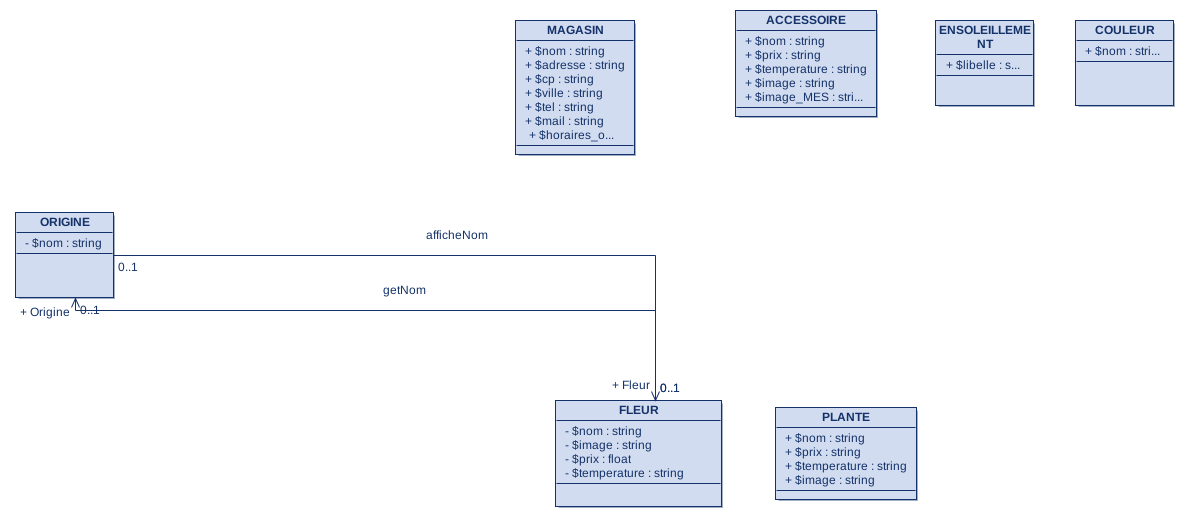
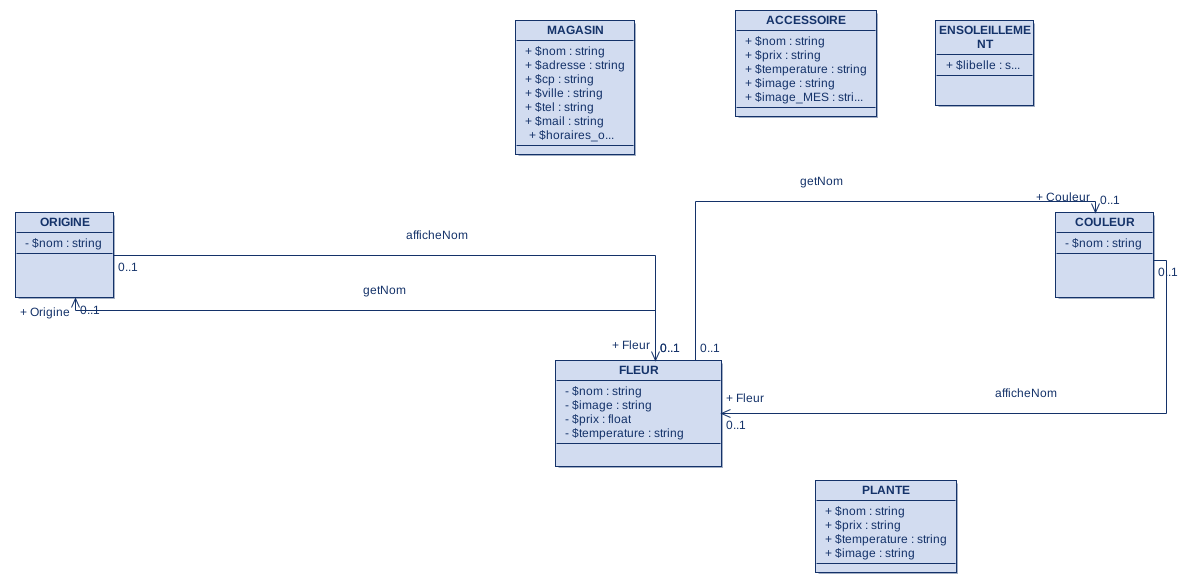
travail 2: travail n°4, même travaux pour classe Couleur

diff --git a/POO/utilisationClasseFleur.php b/POO/utilisationClasseFleur.php
@@ -60,8 +60,20 @@ $ensoleillement->libelle = "Plein soleil";
 var_dump($ensoleillement);
 
 $couleur = new Couleur();
-$couleur->couleur = "Rouge";
+$couleur->getCouleur("Rouge");
 var_dump($couleur);
+
+$couleur1 = new Couleur();
+$couleur1->getCouleur("Jaune");
+var_dump($couleur1);
+
+$couleur2 = new Couleur();
+$couleur2->getCouleur("Violet");
+var_dump($couleur2);
+
+$couleur3 = new Couleur();
+$couleur3->getCouleur("Noir");
+var_dump($couleur3);
 
 $magasin = new Magasin();
 $magasin->nom = "Magasin Teplan";
@@ -85,4 +97,8 @@ echo 'Le/la ' . $accessoire->nom . " coûte " . $accessoire->prix . " €.<br>";
 
 echo '<br>Origine : ' . $origine1->afficheNom() . '<br>';
 echo 'Origine : ' . $origine2->afficheNom() . '<br>';
+
+echo '<br>Couleur : ' . $couleur1->afficheCouleur() . '<br>';
+echo 'Couleur : ' . $couleur2->afficheCouleur() . '<br>';
+echo 'Couleur : ' . $couleur3->afficheCouleur() . '<br>';
 ?>

diff --git a/POO/classeCouleur.php b/POO/classeCouleur.php
@@ -1,5 +1,18 @@
 <?php
 class Couleur{
-    public $couleur;
+    private $couleur;
+
+    public function getCouleur(string $couleur) {
+        if (empty($couleur)||!is_string($couleur)||is_numeric($couleur)) {
+            echo "La couleur de la fleur ou de la plante ne peut pas être vide ou un nombre.";
+            die;
+        } else {
+            return $this->couleur = $couleur;
+        }
+    }
+
+    public function afficheCouleur() {
+        return $this->couleur;
+    }
 }
 ?>

diff --git a/POO/classeOrigine.php b/POO/classeOrigine.php
@@ -4,7 +4,7 @@ class Origine {
 
     public function getNom(string $nom) {
         if (empty($nom)||!is_string($nom)||is_numeric($nom)) {
-            echo "L'origine de la plante ne peut pas être vide ou un nombre.";
+            echo "L'origine de la fleur ou de la plante ne peut pas être vide ou un nombre.";
             die;
         } else {
             return $this->nom = $nom;
